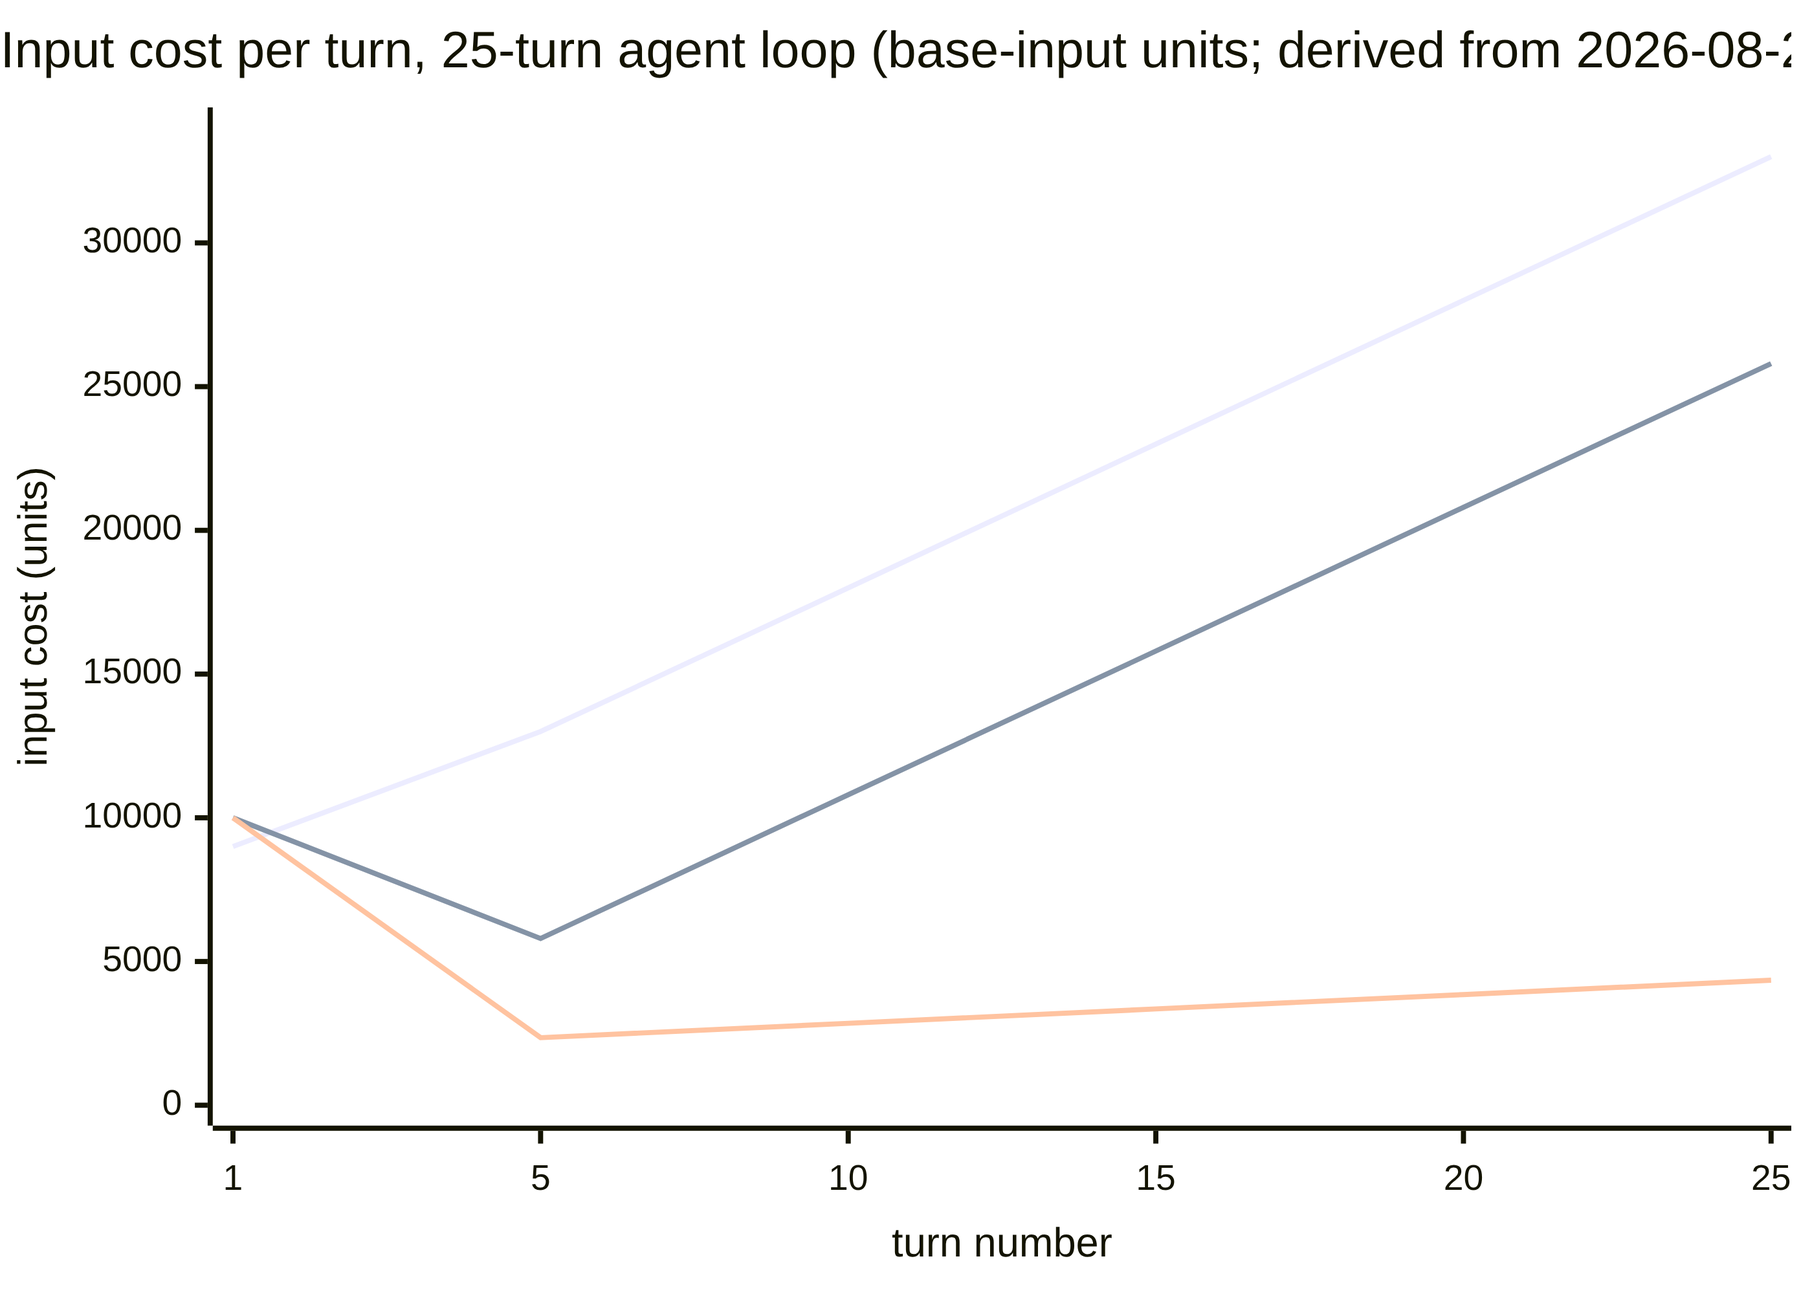
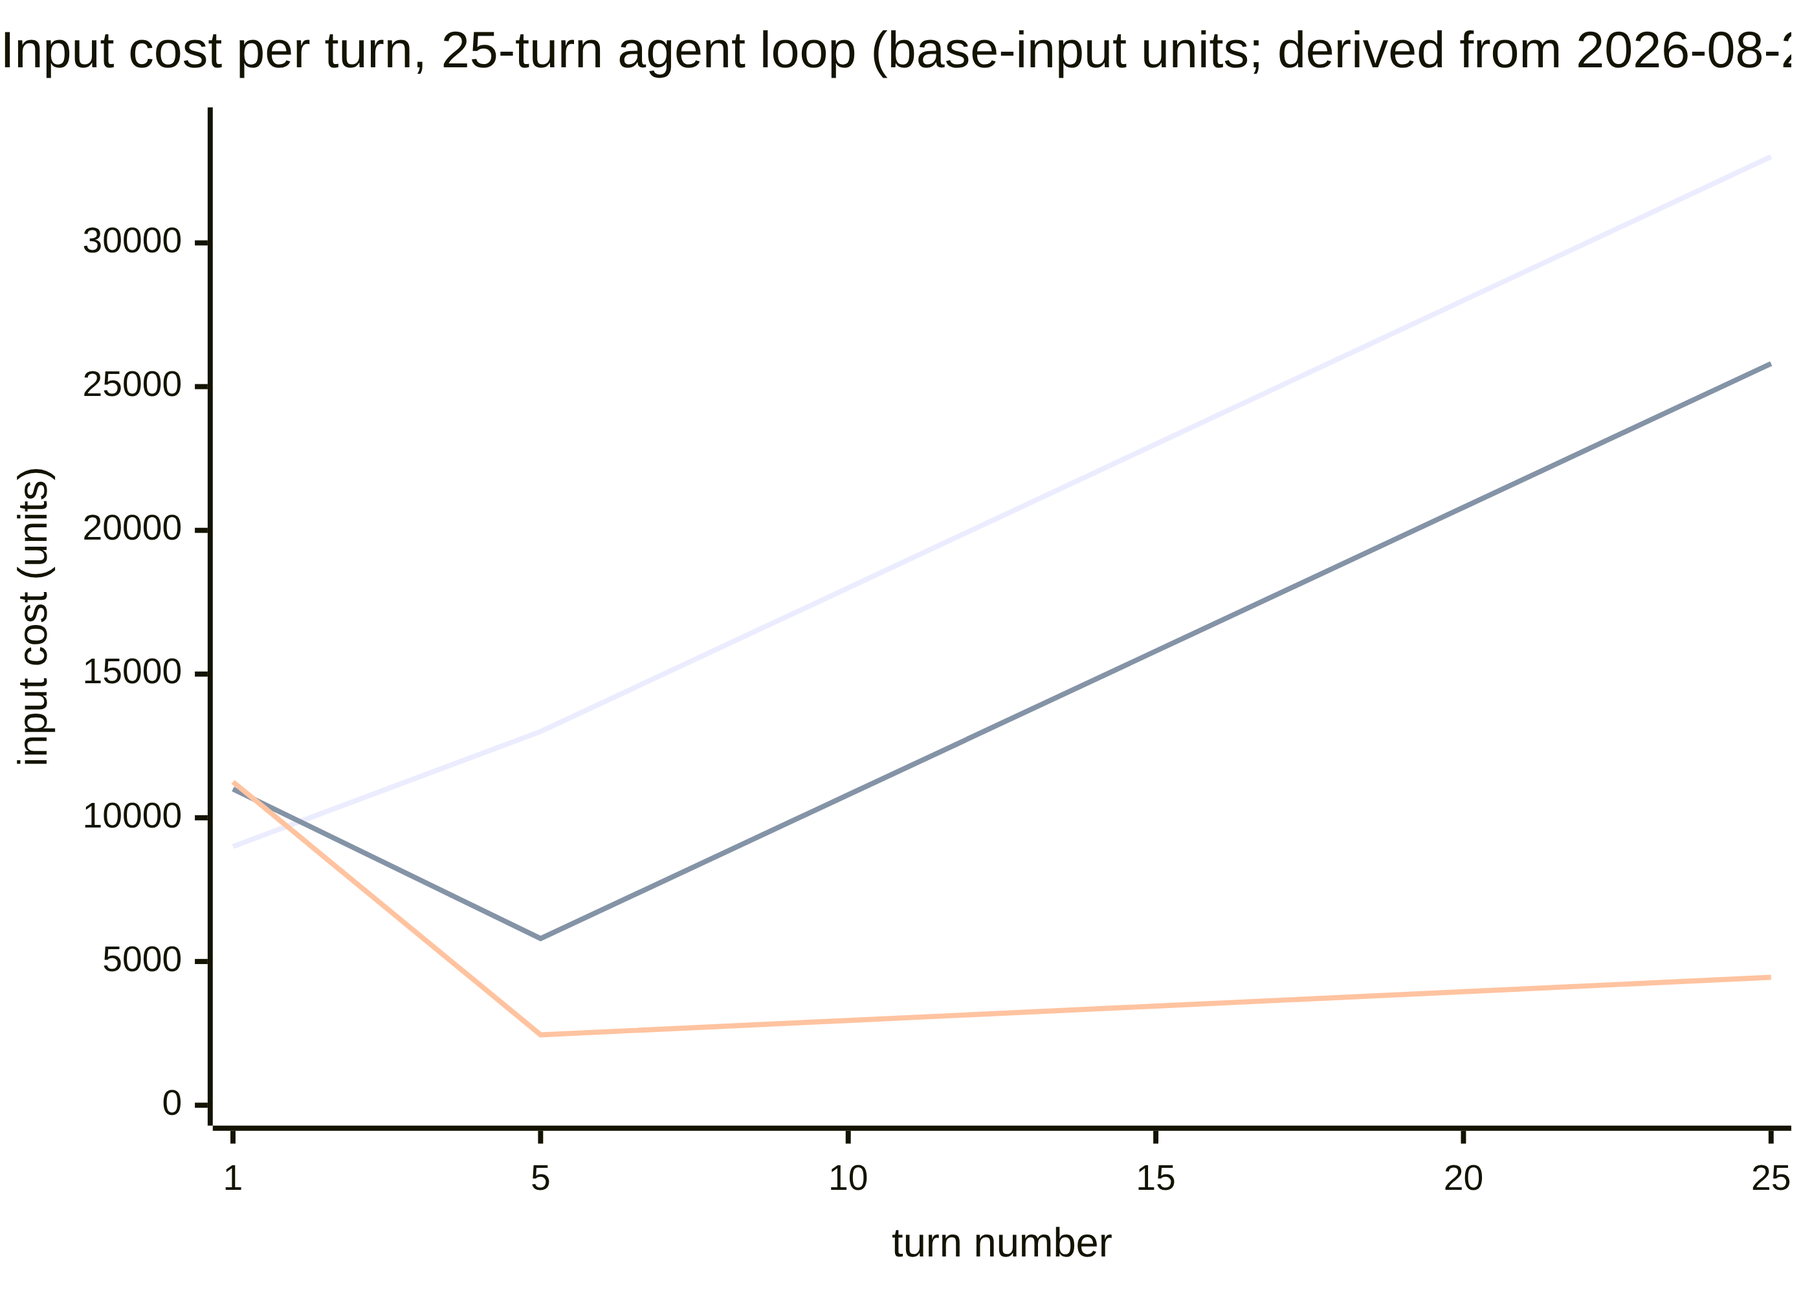
ch14: gate-2 fix pass — correct incremental-caching arithmetic (55,000/90% -> 90,450/83%), chart points, fresh-input formula term

diff --git a/PROGRESS.md b/PROGRESS.md
@@ -44,3 +44,4 @@
 - 2026-08-27 — iteration 37 (Gate-2 fix pass, ch11): research/ at 72 files / 71 dated digests (≥60, gap-fill not triggered); manuscript 18/18 + A–F complete, so continued the post-appendiceal Gate-2 queue (ch01–ch10 done in iterations 29–36/prior). Applied all 2 P1 + 4 P2 findings from review/11-long-context-is-a-memory-product-gate2.md (verdict MINOR, P0=0): (P1-1) the mid-2026 snapshot box's Anthropic bullet had priced a long-context surcharge onto the current generation — replaced with the generation split per research/token-pricing-anatomy.md L48–49 ("Claude 4.6+ ships the full 1M-token window at standard pricing — no long-context surcharge"; older sheets tier, e.g. Sonnet 4.5 ≤200K vs separate >200K, matching ch04:114's correctly versioned table); the old text made ch11 contradict both the digest and the book's own Appendix C:31 ("Claude 4.6+ ships the full 1M-token window at standard price — positioning, not physics (chapter 11)") — the fix brings chapter, digest, and matrix into agreement; (P1-2) Where-the-picture-stops "price tiers sit at 200K tokens at two of the three major providers" corrected to "two of the three major providers price a long-context tier — Google at 200K, OpenAI at ≥272K — while Anthropic's current generation ships 1M at standard price" per the pricing digest (OpenAI's long tier is defined as ≥272K-token requests, L13/L17; at most one provider tiers at 200K); (P2-3) ch04 droop-series label fixed "at 8K → 32K → 128K" → "from short context → 32K → 128K" — ch04:159 derives 208 tok/s at short context (16 GB weights-only payload; reviewer's ~197-at-8K counterfactual recomputed and confirmed: 128 KiB/token × 8K = 1 GiB → 208×16/17 ≈ 196); (P2-4) undefined ring-size N (colliding with §11.2's prompt-length N in c·(N²+NM+M²/2)) re-symbolized "after N−1 hops" → "after d−1 hops, with d chips in the ring" per the digest's ring-size meaning; (P2-5) MagicDec ~90% acceptance re-attributed to its true setup — "on a 70B drafter at batch 1" — per spec-decode-acceptance-data.md L13 (the 2.51× headline and the ~90% belong to different experiments: 8B/batch 32–256 vs 70B self-draft/batch 1); (P2-6) YaRN expanded at its only manuscript use as "(a RoPE-scaling method)". One documented deviation from reviewer literal text: P2-6 uses "a RoPE-scaling method" not "an interpolated RoPE-scaling method" — both digests describe YaRN only as RoPE-scaling/position-scaling, so "interpolated" would be a mechanism claim outside the corpus (same class of discipline as iteration 25's attribution removals). All digest citations re-verified against research/ before applying (token-pricing-anatomy, spec-decode-acceptance-data, context-parallelism-long-context, context-window-claims, ch04:114/159). Ripple check: grep confirmed the remaining "N−1" hits (ch17 fleet arithmetic, ch18 latency identity) are unrelated; ch11:192's "measure TTFT at 8K, 32K, 128K, 256K" is a fresh probe recipe, not the mislabeled droop series, left intact; no other chapter or appendix carried the corrected claims. Lint: MANUSCRIPT OK, 18/18 chapters, 26 files, 111,930 words (+41, all correction-bearing). EPUB rebuilds clean (SKIP_FIGURES=1: 6.0M, 34/34 mermaid staged, validate-epub.py passes; cover.jpg image-size WARNING remains the known benign probe warning; no figures changed this iteration so SKIP_FIGURES is sound). Ch11 now 5,083 words — inside the 3,000–5,500 concept band. Gate-2 status: ch01 + ch04 + ch02 + ch03 + ch05 + ch06 + ch07 + ch08 + ch09 + ch10 + ch11 findings applied; queue next: ch12, then chapter order through ch18, then reflow decision (54 wide lines) per Appendix F.
 - 2026-08-27 — iteration 38 (Gate-2 fix pass, ch12): research/ at 72 files / 71 dated digests (≥60, gap-fill not triggered); manuscript 18/18 + A–F complete, so continued the post-appendiceal Gate-2 queue (ch01–ch11 done in iterations 29–37/prior). Applied all 2 P1 + 5 P2 findings from review/12-the-streaming-contract-gate2.md (verdict MINOR, P0=0): (P1-1) Field-note arithmetic contradiction fixed — "hang 40 minutes … ten-minute line — three times over" broke the chapter's own derived 3 × 10 min ≈ ~30 minutes (dated box + checkpoint 5 both teach it); anecdote now reads "hang ~30 minutes", aligning the operator observation with the SDK arithmetic it illustrates; (P1-2) gpt-oss-120b ~3,000-vs-~500 tokens/s Cerebras/Groq benchmark numbers moved out of the durable-prose spine into a new "Dated snapshot — same weights, different stacks (2026-08-27)" box per STYLE's hard rule (same pattern as the ch01/ch03/ch07/ch09 gate-2 P1s), prose keeps the six-fold spread claim + pointer; (P2-3) GLM-5.3 1.6/30.1/7.5 s split attribution reworked to "(mid-2026 Artificial-Analysis snapshot, quoted in full in chapter 2)" — book-wide boxing convention verified first: ch02:121 carries the identical numbers in dated-attribution prose, so both chapters now match (callback, not divergence); (P2-4) "no provider exposes TTFT distributions" scoped to "hosted providers … checked Anthropic and OpenAI docs" — the digest verifies the negative for two providers only, and self-hosted vLLM does publish server-side TTFT histograms (the chapter's own See-it says so); (P2-5) "no provider publishes a milliseconds-per-hit figure" → "neither OpenAI nor Anthropic publishes … (checked 2026-08-27)" per digest scope; (P2-6) acronym expansions at true first use — TTFT at the intro (time to first token), JSON in the 12.1 table row (JavaScript object notation, with the §12.2 duplicate expansion de-duplicated to plain "JSON"), LLM in See-it (large language model; grep confirmed line 184 is the chapter's only LLM use); (P2-7) unverifiable vendor-motive claim hedged — "the SDK defaults are ten minutes long precisely because" → "OpenAI's and Anthropic's SDK defaults … largely because" (digests give no vendor motive, and the 10-min default belongs to those two SDKs only, not Google's). All digest citations re-verified against research/ before applying (provider-latency-snapshot-2026.md L6-8/L18/L25 for the box wording incl. Cerebras-docs/Groq-catalog attribution and the derived 6×; cancellation-timeout-semantics.md for the 3 × 10-min arithmetic; serving-observability-metrics.md for the two-provider TTFT negative; grep confirmed no ripples — "40 minutes" appears nowhere else in manuscript/). Lint: MANUSCRIPT OK, 18/18 chapters, 26 files, 111,987 words. EPUB rebuilds clean (SKIP_FIGURES=1: 6.0M, 34/34 mermaid staged, validate passes; cover.jpg image-size WARNING remains the known benign probe warning; no figures changed this iteration so SKIP_FIGURES is sound). Ch12 now 5,377 words (+58 net: box conversion + expansions − de-duplicated §12.2 expansion) — inside the 3,000–5,500 concept band, resolving the reviewer's word-count note (by-inspection "at or slightly above" was under, exact figure 5,377). Gate-2 status: ch01 + ch02 + ch03 + ch04 + ch05 + ch06 + ch07 + ch08 + ch09 + ch10 + ch11 + ch12 findings applied; queue next: ch13, then chapter order through ch18, then reflow decision (54 wide lines) per Appendix F.
 - 2026-08-27 — iteration 39 (Gate-2 fix pass, ch13): research/ at 72 files / 71 dated digests (≥60, gap-fill not triggered); manuscript 18/18 + A–F complete, so continued the post-appendiceal Gate-2 queue (ch01–ch12 done in iterations 29–38/prior). Applied all 1 P1 + 4 P2 findings from review/13-structured-output-is-not-a-prompt-trick-gate2.md (verdict MINOR, P0=0): (P1-1 ×2) dangling sampler-knob cross-references fixed — §13.2 step 3 said "all the chapter-5 sampler knobs" and the lever table row credited "Chapter 2, chapter 5", but grep-verified that top-p/min-p/sampler-knob content exists nowhere outside ch13 in the entire manuscript; step 3 now reads "the usual sampler knobs" and the lever row now reads "Not owned elsewhere — glossed in §13.2", so neither pointer sends readers to background that does not exist; (P2-2) derived TTFT ratio "≈8× faster first token" → "≈8.5×" (38.5 ÷ 4.552 = 8.46, matching the two-significant-figure rounding of its sibling ≈4.3×/≈4.2× ratios; figures re-verified against constrained-decoding-grammars.md L11); (P2-3) "half a minute building a per-request FSM" → "over half a minute" — 38.5 s exceeds 30 s by ~28% and the understatement softened the compile-tax argument the exact figure was making; (P2-4) CRANE model variant corrected "Qwen2.5-Math-7B" → "Qwen2.5-Math-7B-Instruct" per structured-output-costs-tension.md L8 (the base 7B is a different model from the one that produced the 29%/38% numbers); (P2-5) grader instrument corrected "a tolerant parser" → "an LLM-based parser" in the 43.7%-vs-75.5% sentence — the digest attributes 75.5% specifically to an LLM parser, "tolerant" was the chapter's generalization. Judgment calls documented: See-it-in-the-wild's separate "run your strictest validator and a tolerant parser" (line 178) left untouched — that is operator-practice advice the digest itself recommends ("grade/validate with a tolerant parser, never a tight regex", L27), not an attribution of the measured number; ch08's "rejection sampler"/"the sampler" mentions verified unrelated (speculative-decoding content, no chapter-5 pointers). Ripple checks: no manuscript-wide references to Qwen2.5-Math outside ch13; no other chapter references ch5 sampler knobs. All digest citations re-verified against research/ before applying. Lint: MANUSCRIPT OK, 18/18 chapters, 26 files, 111,991 words. EPUB rebuilds clean (SKIP_FIGURES=1: 6.0M, 34/34 mermaid staged, validate passes; cover.jpg image-size WARNING remains the known benign probe warning; no figures changed this iteration so SKIP_FIGURES is sound). Ch13 now ≈5,762 prose words (+~5, all correction-bearing) on a base logged at 5,863 draft words / over the 5,500 concept cap in iteration 17 as content-bearing — logged rather than trimmed, consistent with ch03/ch04/ch09/ch12 fix-pass precedent. Gate-2 status: ch01–ch13 findings applied; queue next: ch14, then chapter order through ch18, then reflow decision (54 wide lines) per Appendix F.
+- 2026-08-27 — iteration 40 (Gate-2 fix pass, ch14): research/ at 72 files / 71 dated digests (≥60, gap-fill not triggered); manuscript 18/18 + A–F complete, so continued the post-appendiceal Gate-2 queue (ch01–ch13 done in iterations 29–39/prior). Applied all 2 P1 + 2 P2 findings from review/14-the-cache-that-pays-your-bill-gate2.md (verdict MINOR, P0=0): (P1-1) the headline incremental-caching result was arithmetically impossible — "≈ 55,000 units — about 90% cheaper" under the chapter's own 1.25×/0.1× multipliers gives 90,450 units ≈ 83% cheaper (prefix 10,000 write + 19,200 reads; history 25 blocks × 1,250 written once + 30,000 reads; floor with no write premium = 82,200 ≈ 84%); recomputed independently before applying — each history block must be paid ≥1.0× once, so 55,000 is unreachable; (P1-2) the misread-number sentence re-anchored from "the gap between 32% and 90%" to "32% and 83%", with marketing's ~90% now correctly attributed to fanout-shaped traffic, which genuinely reaches it (fanout 5.01M/50M ≈ 90% verified legitimate); (P2-3) chart corrected — prefix-only turn-1 point 10,000→11,000 (was omitting the 1,000 fresh history tokens the no-cache line includes) and the incremental line refit to the 1.25×-write arithmetic ([11250, 2450, 2950, 3450, 3950, 4450]; turn 1 = 10,000 + 1,250 write; turns = 800 read + 1,250 write + 100·(k−1) reads; 25-turn sum = 90,450 exactly); (P2-4) cost-formula first term relabeled fresh_input_tokens with the inclusive-counting caveat — on OpenAI/Gemini reported prompt totals include cached tokens, so fresh input is total minus cached and cache-write tokens (chapter 12's normalizer output), Anthropic being the only exclusive-bucket convention where all four values are raw reported fields; also applied the reviewer's optional Checkpoint-2 precision ("~90% for fanout-shaped traffic"). Documented deviations from reviewer literal text: (a) P1-1 uses exact 90,450, not the reviewer's ≈90,500 rounding, so headline, decomposition, and chart sum agree; (b) P1-2's replacement said "the example above" but the fanout example sits below the sentence — wrote "the fanout example below"; (c) P2-4's "total prompt minus cached" tightened to "minus the cached and cache-write tokens" per ch12's identity (total input = reads + writes + fresh), and the now-contradicted "four provider-reported fields, no estimates" sentence reworded to match the reviewer's own Why. RESEARCH-DIGEST DIVERGENCE LOGGED (not edited, per the never-edit rule): research/cache-hit-math-agent-loops.md §(a) is the error's origin — its own printed terms (10,000 + 19,200 + 32,400) sum to 61,600, not its claimed ≈55,000, and it omits history first-pass writes entirely; the chapter's existing derived-label ("arithmetic derived from the 2026-08-27 multipliers; the multipliers are the sourced facts") covers the fix; a future research refresh must not re-import the digest's 55,000/90% loop figures. Ripple checks: grep confirmed 55,000/90%-loop figures and the four-term formula appear nowhere else in manuscript/ or companion/ (ch14's remaining "90%" hits are the vendor claim, the punch-card ELI5, the read-discount gloss, and the legitimate fanout; ch16's formula is the separate Σ bucket×rate×modifier). Figure: ch14 m1 xychart re-rendered via tools/render-mermaid.sh (PNG+SVG changed; pixel-verified 26,312 dark sampled pixels; staged .mmd matches corrected arrays; m2 untouched). Validation: lint MANUSCRIPT OK 18/18 chapters, 26 files, 112,081 words; full build with figures on → EPUB OK 6.0M, 34/34 mermaid staged, 0 degraded, validate passes (cover.jpg image-size WARNING remains the known benign probe warning). Ch14 now ≈5,360 words — inside the 3,000–5,500 concept band. Gate-2 status: ch01–ch14 findings applied; queue next: ch15, then chapter order through ch18, then reflow decision (54 wide lines) per Appendix F.

diff --git a/manuscript/14-the-cache-that-pays-your-bill.md b/manuscript/14-the-cache-that-pays-your-bill.md
@@ -74,7 +74,7 @@ At 1.25/0.1: N ≥ 0.25/0.9 ≈ **0.28** — one reuse already pays the premium,
 
 - **No caching:** 525,000 units.
 - **Prefix-only caching** — only the frozen 8,000-token head ever hits: turn 1 writes (10,000 units), turns 2–25 read it (800 units each), and the growing 325,000-token history pays full price. Total ≈ **354,200 units — about 32.5% cheaper**.
-- **Incremental caching** — the provider also caches the growing transcript, because each turn's history is byte-identical to the last turn's prompt plus a suffix: every 1,000-token block is written once and read ever after. Total ≈ **55,000 units — about 90% cheaper**.
+- **Incremental caching** — the provider also caches the growing transcript, because each turn's history is byte-identical to the last turn's prompt plus a suffix: every 1,000-token block is written once and read ever after. Total ≈ **90,450 units — about 83% cheaper** (prefix: 10,000 written + 19,200 read; history: 25 blocks × 1,250 written once + 30,000 read — and even a provider charging no write premium at all floors at ≈ 82,200 units, ~84%).
 
 ```mermaid
 xychart-beta
@@ -82,13 +82,13 @@ xychart-beta
     x-axis "turn number" [1, 5, 10, 15, 20, 25]
     y-axis "input cost (units)" 0 --> 34000
     line [9000, 13000, 18000, 23000, 28000, 33000]
-    line [10000, 5800, 10800, 15800, 20800, 25800]
-    line [10000, 2350, 2850, 3350, 3850, 4350]
+    line [11000, 5800, 10800, 15800, 20800, 25800]
+    line [11250, 2450, 2950, 3450, 3950, 4450]
 ```
 
 *(Three lines: no caching (top), prefix-only caching (middle, parallel to it — the history still pays full price), incremental caching (bottom, nearly flat). The middle line is what you get by accident; the bottom line is what layout discipline buys.)*
 
-The gap between 32% and 90% is the most commonly misread number in cache economics. Marketing quotes the 90%; you will first measure something near a third of that, because the growing transcript only caches if *every earlier byte stays identical* — and three habits quietly break it: re-serializing history with shuffled tool-call ordering, compacting old turns (chapter 11's cliff, paid here as a cache miss), or letting the TTL lapse between turns.
+The gap between 32% and 83% is the most commonly misread number in cache economics. Marketing quotes the ~90% that fanout-shaped traffic can genuinely reach (the fanout example below); you will first measure something near a third of that, because the growing transcript only caches if *every earlier byte stays identical* — and three habits quietly break it: re-serializing history with shuffled tool-call ordering, compacting old turns (chapter 11's cliff, paid here as a cache miss), or letting the TTL lapse between turns.
 
 > **ELI5:** Now imagine the punch card expires five minutes after each purchase — but every card visit renews it. Order, drink, order again inside five minutes, and the card lives forever. Wander off for six minutes and the shop burns the card; your next visit pays a new enrollment fee. That is cache TTL: the clock resets on hits, and expiry doesn't just return you to full price — it re-charges the enrollment fee.
 
@@ -99,11 +99,11 @@ The gap between 32% and 90% is the most commonly misread number in cache economi
 Finally, the formula that meters all of it — chapter 12's usage fields feeding one ledger:
 
 ```
-cost = (input_tokens × P_in + cached_tokens × P_cached
+cost = (fresh_input_tokens × P_in + cached_tokens × P_cached
       + cache_write_tokens × P_write + output_tokens × P_out) / 1,000,000
 ```
 
-Four terms, four provider-reported fields, no estimates. The cache-hit rate — cached tokens ÷ (cached + fresh input) — is the number to put on a dashboard next to latency, and chapter 6 already told you why it collapses after deploys. The remainder of this chapter is about never giving it a reason to.
+Four terms, no estimates. On Anthropic's exclusive buckets every value is a provider-reported field; on the inclusive counters — OpenAI and Gemini, whose reported prompt totals *include* cached tokens (chapter 12's warning) — fresh input is total prompt minus the cached and cache-write tokens, chapter 12's normalizer output rather than a raw field. The cache-hit rate — cached tokens ÷ (cached + fresh input) — is the number to put on a dashboard next to latency, and chapter 6 already told you why it collapses after deploys. The remainder of this chapter is about never giving it a reason to.
 
 ## 14.4 Designing prefixes that hit
 
@@ -172,7 +172,7 @@ The warehouse, the punch card, and the letterhead carried the chapter; bill them
 ## Checkpoint
 
 1. Write price 2×, read price 0.1×. How many reuses before the write premium pays for itself, and what does the provider's own documentation call that threshold?
-2. Your 25-turn loop measures only ~32% savings, though the blog posts promised ~90%. Name the three habits that keep you on the middle line of the chart.
+2. Your 25-turn loop measures only ~32% savings, though the blog posts promised ~90% for fanout-shaped traffic. Name the three habits that keep you on the middle line of the chart.
 3. A teammate moves `Current time: 14:03` from the system prompt into the last user message. What happens to the hit rate, to the write premium, and to what the model conditions on?
 4. Your OpenAI org runs a 40-request-per-minute fanout over one shared prefix and sees cached share sag during bursts. What mechanism, what parameter groups the routing, and what harness-side fix finishes the job?
 5. A tool call waits 7 minutes for human approval; the model's cache TTL is 5 minutes. Price the next turn relative to a clean read, and name the two lifecycle fixes with their costs.
